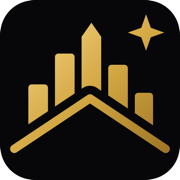
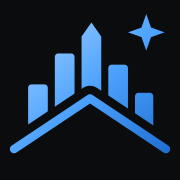
Switch accent to Himmelblau, remove hero chips, smaller pictures on phones
- Accent colour is now one setting (--accent lines in global.css) and is
  Himmelblau #4DA3FF instead of gold; logo, favicon, touch icon and share
  image recoloured to match
- Hero: stage chips removed, progress line stays
- Phones: before/after sliders and content photos are 16:9 instead of 4:3
- Quote form: success note uses the accent colour again
- Class names no longer say gold (btn--primary, accent)

diff --git a/website/src/styles/global.css b/website/src/styles/global.css
@@ -8,12 +8,12 @@
   --surface-2: #1b1f26;
   /* The accent colour. To change it, edit these six lines (and the three
      colours in the logo files, see README "Accent colour"). */
-  --accent: #e2b340;
-  --accent-rgb: 226 179 64; /* the same colour as three numbers, for see-through tints */
-  --accent-strong: #f1c75a; /* hover */
-  --accent-ink: #15110a; /* text on top of the accent */
-  --accent-light: #f6d88a; /* logo gradient, light end */
-  --accent-dark: #9c7424; /* logo gradient, dark end; also accent text on the light section */
+  --accent: #4da3ff; /* Himmelblau */
+  --accent-rgb: 77 163 255; /* the same colour as three numbers, for see-through tints */
+  --accent-strong: #7dbcff; /* hover */
+  --accent-ink: #06121f; /* text on top of the accent */
+  --accent-light: #a9d3ff; /* logo gradient, light end */
+  --accent-dark: #1f6fd1; /* logo gradient, dark end; also accent text on the light section */
   --accent-soft: rgb(var(--accent-rgb) / 0.12);
   --wa: #25d366;
   --wa-ink: #06210f;
@@ -156,7 +156,7 @@ ol {
 [hidden] {
   display: none !important;
 }
-.gold {
+.accent {
   color: var(--c-accent);
 }
 .muted {
@@ -312,12 +312,12 @@ ol {
 .btn .icon {
   color: inherit;
 }
-.btn--gold {
+.btn--primary {
   background: var(--accent);
   color: var(--accent-ink);
   box-shadow: 0 8px 28px rgb(var(--accent-rgb) / 0.28);
 }
-.btn--gold:hover {
+.btn--primary:hover {
   background: var(--accent-strong);
   color: var(--accent-ink);
   box-shadow: 0 10px 34px rgb(var(--accent-rgb) / 0.4);
@@ -726,7 +726,7 @@ ol {
 .hero__content h1 {
   max-width: 880px;
 }
-.hero__content h1 .gold {
+.hero__content h1 .accent {
   color: var(--accent);
 }
 .hero__sub,

diff --git a/website/src/scripts/configurator.ts b/website/src/scripts/configurator.ts
@@ -247,7 +247,7 @@ export function initConfigurator() {
     const url = `https://wa.me/${root.dataset.wa}?text=${encodeURIComponent(summary())}`;
     track('generate_lead', { method: 'whatsapp' });
     window.open(url, '_blank', 'noopener');
-    msg.style.color = 'var(--gold-1)';
+    msg.style.color = 'var(--accent)';
     msg.textContent = 'WhatsApp wurde geöffnet. Bitte senden Sie die Nachricht dort ab. Fotos können Sie direkt im Chat anhängen.';
   });
 
